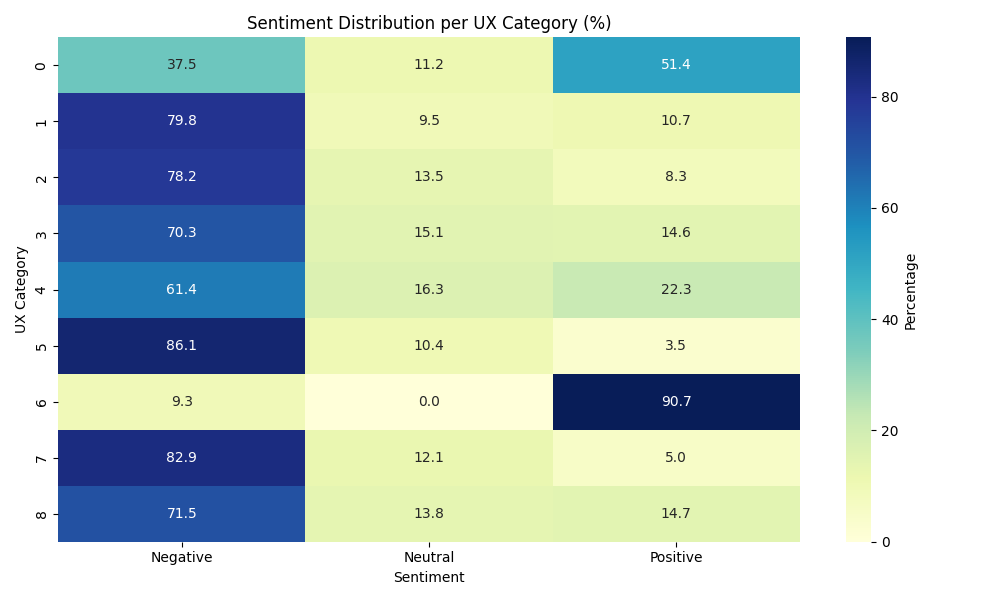
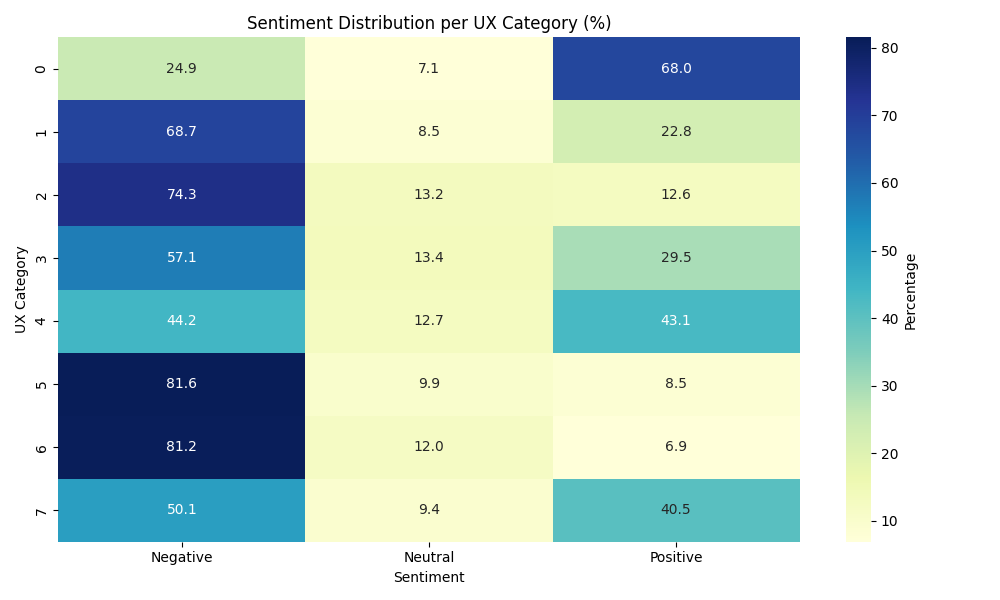
fix bug

diff --git a/filter.py b/filter.py
@@ -48,10 +48,10 @@ class Labeling_UX_Reviews:
         msg = str(row['message']).lower()
         score = row['score']
 
-        if score >= 4:
-            if any(kyw in msg for kyw in ['bagus', 'baik', 'suka', 'puas', 'terbaik', 'mantap', 'mudah', 'praktis', 'cepat', 'efisien',
-                                          'memuaskan', 'user friendly', 'simpel', 'keren', 'membantu', 'rekomendasi', 'enak', 'berguna', 'cocok']):
-                return "Positive Feedback"
+        # if score >= 4:
+        #     if any(kyw in msg for kyw in ['bagus', 'baik', 'suka', 'puas', 'terbaik', 'mantap', 'mudah', 'praktis', 'cepat', 'efisien',
+        #                                   'memuaskan', 'user friendly', 'simpel', 'keren', 'membantu', 'rekomendasi', 'enak', 'berguna', 'cocok']):
+        #         return "Positive Feedback"
 
         for category, keywords in self.ux_keywords().items():
             for keyword in keywords:
@@ -105,4 +105,3 @@ if __name__ == "__main__":
 
         print(result)
         print(f"Processed {input_csv} -> Total label reviews: {len(labeled_df)} and saved to {output_csv}.")
-

diff --git a/chart.py b/chart.py
@@ -6,11 +6,11 @@ import seaborn as sns
 data = {
     'ux_category': [
         'Benefit Issue', 'Connectivity Issue', 'Login Issue', 'Navigation Issue',
-        'Other UX Issue', 'Performance Issue', 'Positive Feedback', 'Technical Issue', 'Top Up Issue'
+        'Other UX Issue', 'Performance Issue', 'Technical Issue', 'Top Up Issue'
     ],
-    'Negative': [289, 8796, 1574, 550, 4687, 12788, 689, 6661, 393],
-    'Neutral': [86, 1048, 272, 118, 1247, 1549, 0, 969, 76],
-    'Positive': [396, 1177, 168, 114, 1703, 524, 6697, 401, 81]
+    'Negative': [299, 9078, 1586, 569, 4777, 13438, 6942, 412],
+    'Neutral': [86, 1117, 281, 134, 1375, 1630, 1024, 77],
+    'Positive': [818, 3018, 269, 294, 4667, 1406, 588, 333]
 }
 df = pd.DataFrame(data)
 

diff --git a/main.py b/main.py
@@ -72,10 +72,11 @@ class GooglePlayReviewScraper:
 if __name__ == "__main__":
     apps = [
         {"id": "com.telkomsel.telkomselcm", "name": "MyTelkomsel"},
-        {"id": "com.shopee.id", "name": "Shopee"},
-        {"id": "com.tokopedia.tkpd", "name": "Tokopedia"},
-        {"id": "com.ss.android.ugc.trill", "name": "TikTok"},
-        {"id": "id.bmri.livin", "name": "Livin Mandiri"},
+        # {"id": "com.shopee.id", "name": "Shopee"},
+        # {"id": "com.tokopedia.tkpd", "name": "Tokopedia"},
+        # {"id": "com.ss.android.ugc.trill", "name": "TikTok"},
+        # {"id": "id.bmri.livin", "name": "Livin Mandiri"},
+        # {"id": "com.pure.indosat.care", "name": "MyIM3"},
     ]
 
     for app in apps:
